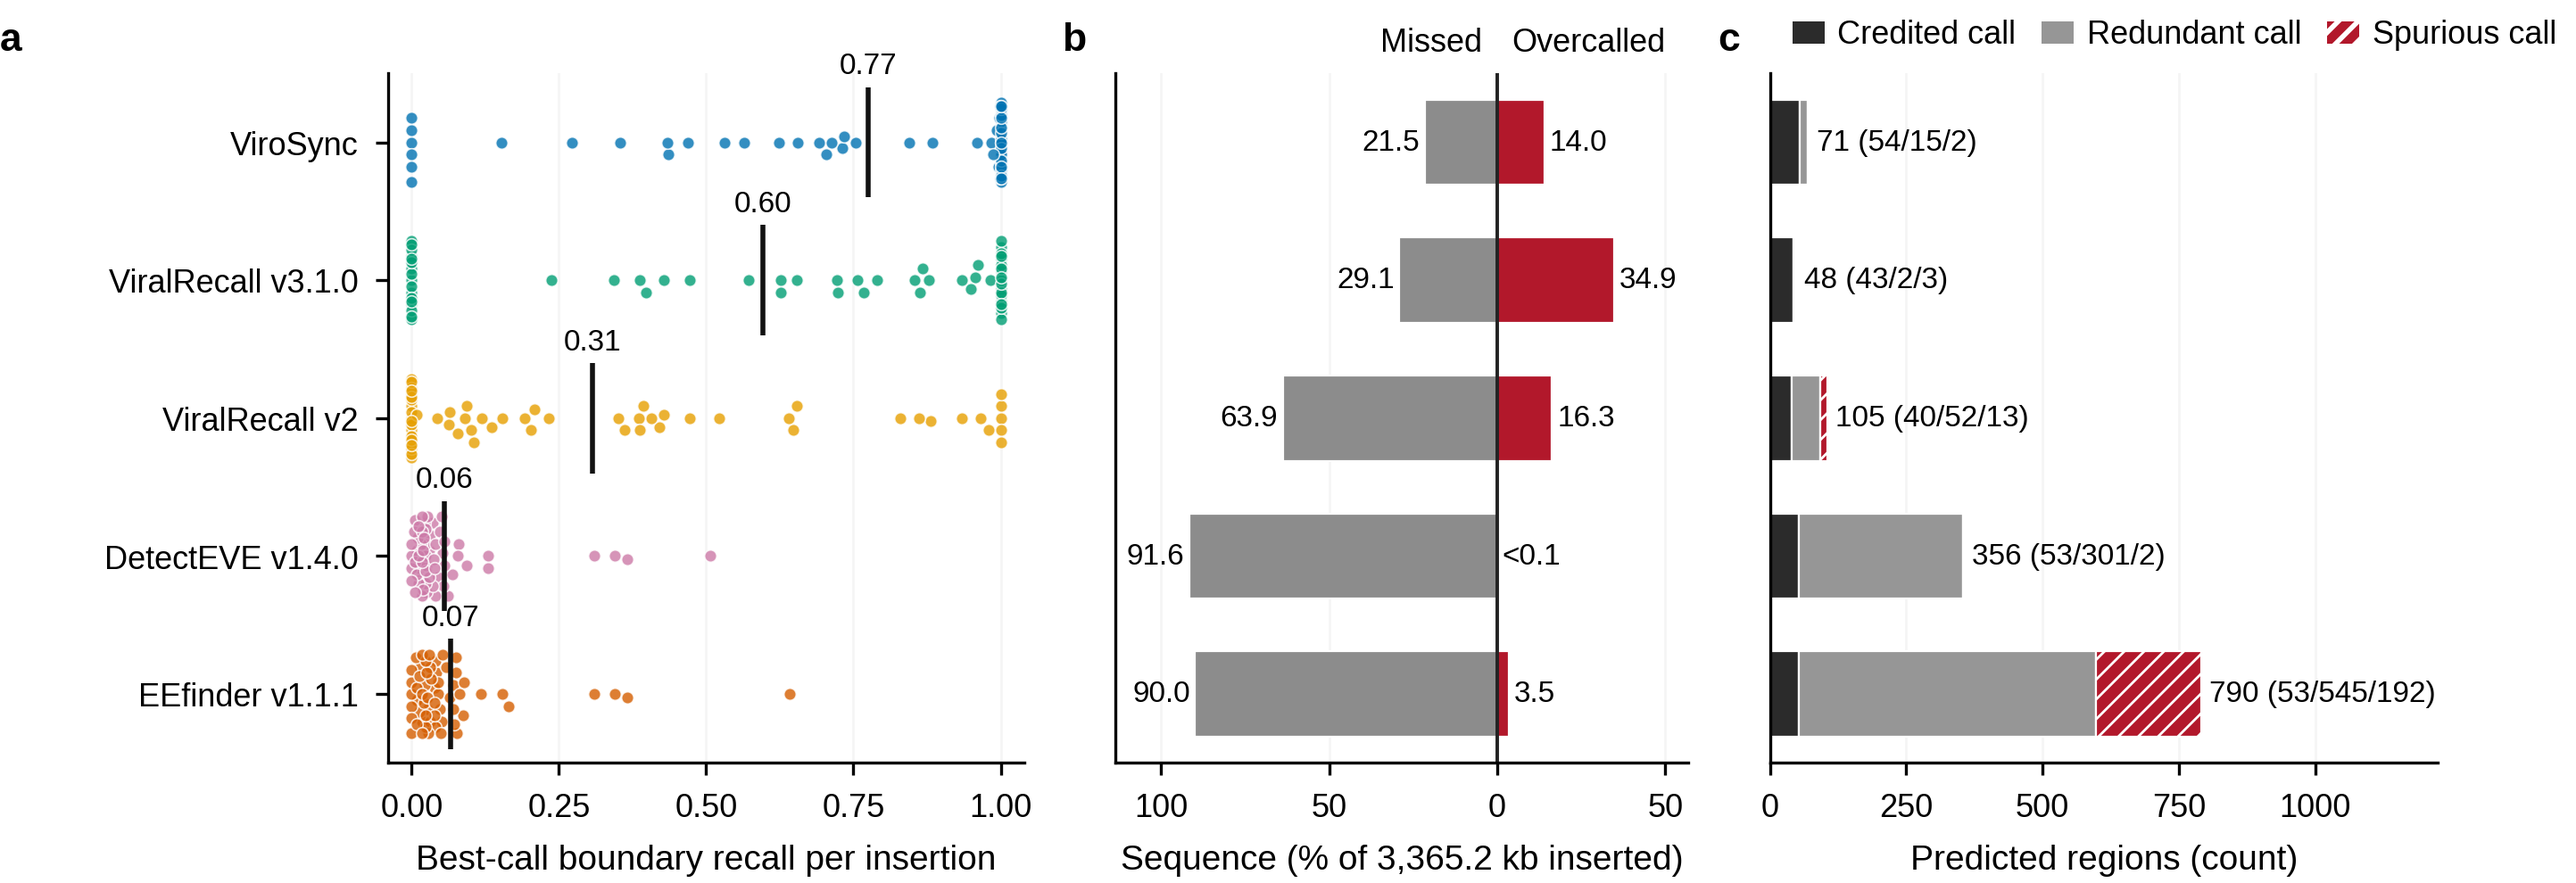
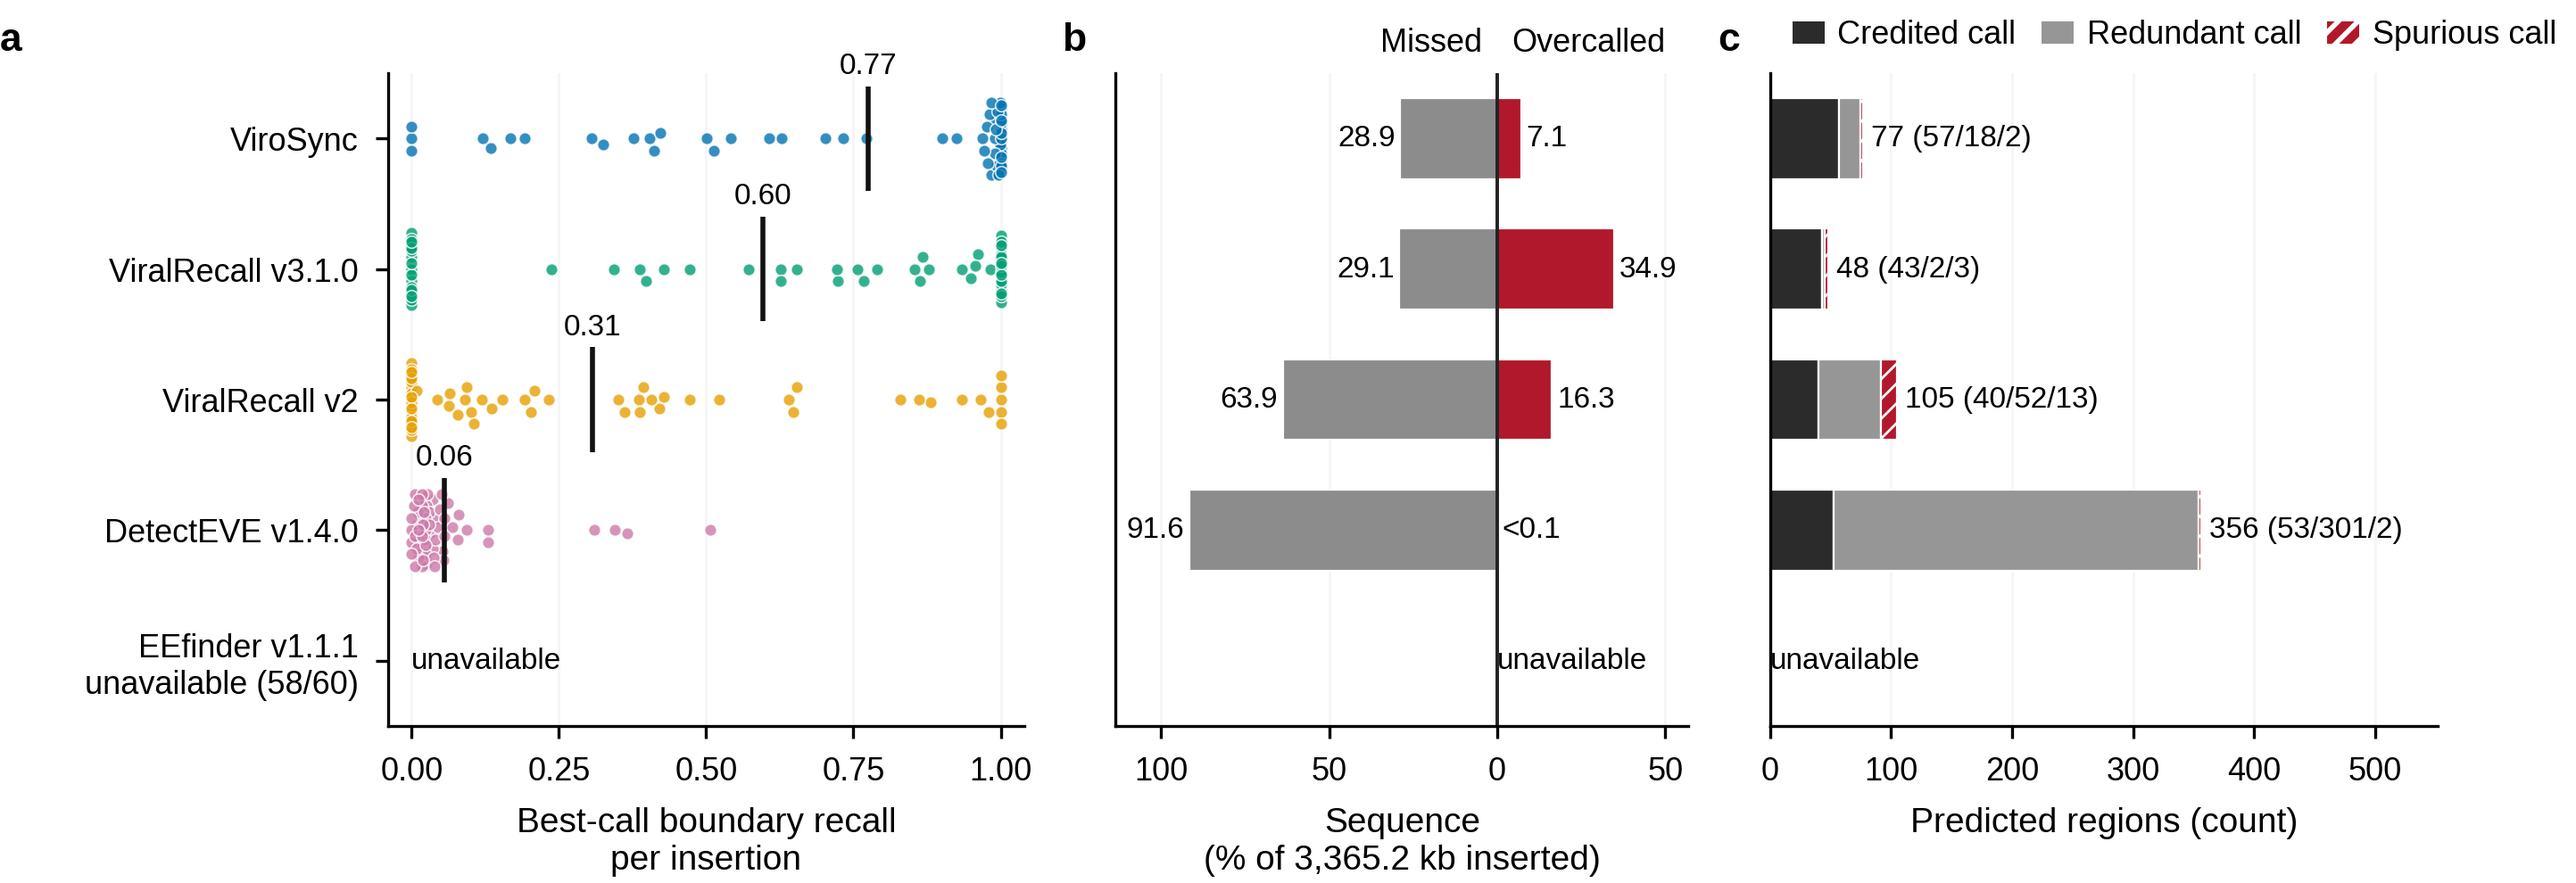
docs(performance): report the 84eb6bb benchmark
Update values, figures and the runtime scope, and state the published
GEVE coverage in which ViralRecall v3.1.0 leads.

diff --git a/docs/performance.md b/docs/performance.md
@@ -1,53 +1,67 @@
 # Performance
 
-The October 23 benchmark used ViroSync 1.0.2 at commit `ec60050` with resource
-bundle v1.2.0, the bundle that public builds install. Its source SHA-256 was
[1 lines of base64/hex data omitted]
-That campaign ran with one worker and 16 threads per input, at most two inputs
-at once, and no optional analyses. All figures below describe that campaign;
-the [paired repeat-annotation regression](#paired-repeat-annotation-regression)
-is reported separately. Select a figure to open the full-size image.
+The November 2 benchmark used ViroSync 1.0.2 at commit `84eb6bb` with resource
+bundle v1.2.0, the bundle that public builds install. ViroSync ran with one worker
+and 16 threads per input and no optional analyses. Comparator outputs come from
+earlier runs and were not repeated. All figures below describe that benchmark; the
+[paired repeat-annotation regression](#paired-repeat-annotation-regression) is
+reported separately. Select a figure to open the full-size image.
 
 ## Synthetic boundary recovery
 
 The synthetic set contains 60 loci and 3,365.2 kb of inserted sequence. Mean
-best-call boundary recall was 0.774 for ViroSync, 0.596 for ViralRecall v3.1.0,
-0.307 for ViralRecall v2, 0.056 for DetectEVE v1.4.0, and 0.066 for EEfinder
-v1.1.1.
+best-call boundary recall was 0.775 for ViroSync, 0.596 for ViralRecall v3.1.0,
+0.307 for ViralRecall v2 and 0.056 for DetectEVE v1.4.0. EEfinder v1.1.1 has no
+pooled mean, because only 58 of its 60 inputs have usable output. ViroSync credited
+57 of the 60 loci with 77 calls, of which 18 were redundant and 2 spurious.
 
 [![Synthetic boundary recovery and call burden](assets/performance/benchmark_fig2_syn2_detection_performance.png)](assets/performance/benchmark_fig2_syn2_detection_performance.png)
 
 *Boundary recovery and call burden across 60 synthetic loci. Panel a credits
 the call with the highest Jaccard index at each locus. Panel b compares missed
 and outside-truth sequence. Panel c partitions calls at a 500 bp one-to-one
-threshold. Missed-locus labels use recovery after the union of call fragments,
-which can recover a locus without a credited one-to-one call. The test excludes
-30 prior-discovery loci whose source elements ViroSync found before this
-comparison. Region detection has no true negative,
+threshold. The test excludes 30 prior-discovery loci whose source elements
+ViroSync found before this comparison. Region detection has no true negative,
 so the plot does not report specificity or accuracy.*
+
+## Published GEVE coverage
+
+ViralRecall v3.1.0 covered more of all three published giant endogenous viral
+elements (GEVEs) than ViroSync. Coverage is the percentage of each published
+element overlapped by calls, so it does not measure precision. ViroSync is shown
+with its HIGH- and MEDIUM-confidence calls and the other tools with all calls. The
+*T. socialis* and *R. irregularis* elements were delimited with ViralRecall, so
+their coverage partly measures agreement with that tool.
+
+| Published element | Size | ViroSync | ViralRecall v3.1.0 | ViralRecall v2 | DetectEVE | EEfinder |
+| --- | ---: | ---: | ---: | ---: | ---: | ---: |
+| *T. socialis* GEVEs | 3.21 Mb | 52.0% | 90.3% | 85.6% | 10.0% | 13.8% |
+| *R. irregularis* GEVE | 1.55 Mb | 24.8% | 36.5% | 70.8% | 4.4% | 3.0% |
+| *C. reinhardtii* GEVE | 617 kb | 57.1% | 84.2% | 75.6% | 10.2% | 5.0% |
 
 ## Runtime and peak memory
 
-Mean wall time across 30 SynEVEs-2 inputs was 102.0 seconds for ViroSync and
-12.3 seconds for ViralRecall v3.1.0. Across five real-genome inputs, the means
-were 529.9 and 1,705.5 seconds. Campaign concurrency differed, so these values
-do not give a general speed ranking.
+Mean wall time across 30 SynEVEs-2 inputs was 137.0 seconds for ViroSync and
+18.9 seconds for ViralRecall v3.1.0. Across five real-genome inputs, the means
+were 689.6 and 2,039.6 seconds. Mean peak memory on the real genomes was 6.0 GB
+for ViroSync and 2.1 GB for ViralRecall v3.1.0. Each run had 16 allocated CPUs on
+the same cluster, but jobs ran on different nodes and dates, so these values do not
+give a general speed ranking.
 
 [![Runtime and peak resident memory](assets/performance/benchmark_figS1_runtime_memory_with_vr30.png)](assets/performance/benchmark_figS1_runtime_memory_with_vr30.png)
 
 *Per-input wall time and peak resident memory for 30 SynEVEs-2 inputs and five
-real-genome inputs. All tools used 16 threads or cores on the same 64-core
-host, but campaign concurrency differed. All ViroSync timings come from the
-October 23 campaign. Wall time includes contention and database caching.
-Peak RSS is shown in decimal GB for the largest single
-process, not the process tree. EEfinder is absent because its campaign used
-different load and concurrency.*
+real-genome inputs, each with 16 allocated CPUs. Wall time includes contention and
+database caching. Peak RSS is shown in decimal GB for the largest single process,
+not the process tree. EEfinder is absent because its outputs are retained from a
+campaign with different load, and ViralRecall v2 shows the two real genomes with
+comparable measurements.*
 
 ## Real-genome output
 
-ViroSync accepted 527 regions across the five real genomes. These inputs have
-no complete region-level truth set. The figure describes output burden and
-gene content, not detection accuracy.
+ViroSync accepted 609 regions across the five real genomes: 66 HIGH, 258 MEDIUM
+and 285 LOW. These inputs have no complete region-level truth set. The figure
+describes output burden and gene content, not detection accuracy.
 
 [![Real-genome candidate burden and gene composition](assets/performance/benchmark_fig3_real_burden_composition.png)](assets/performance/benchmark_fig3_real_burden_composition.png)
 
